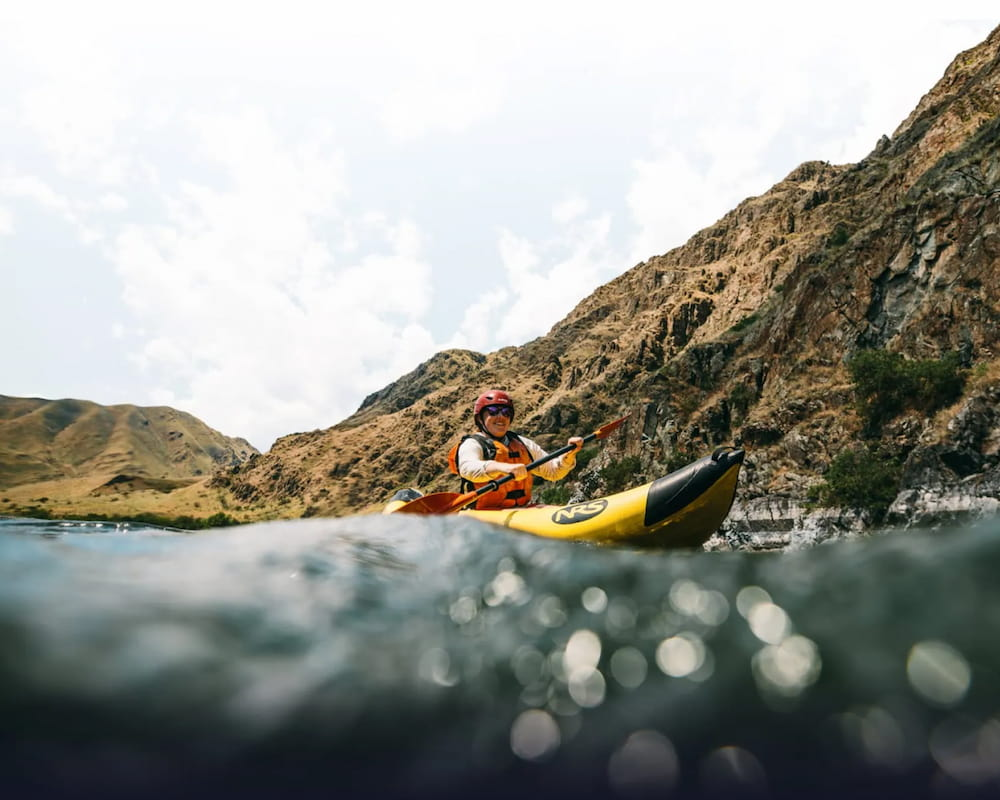
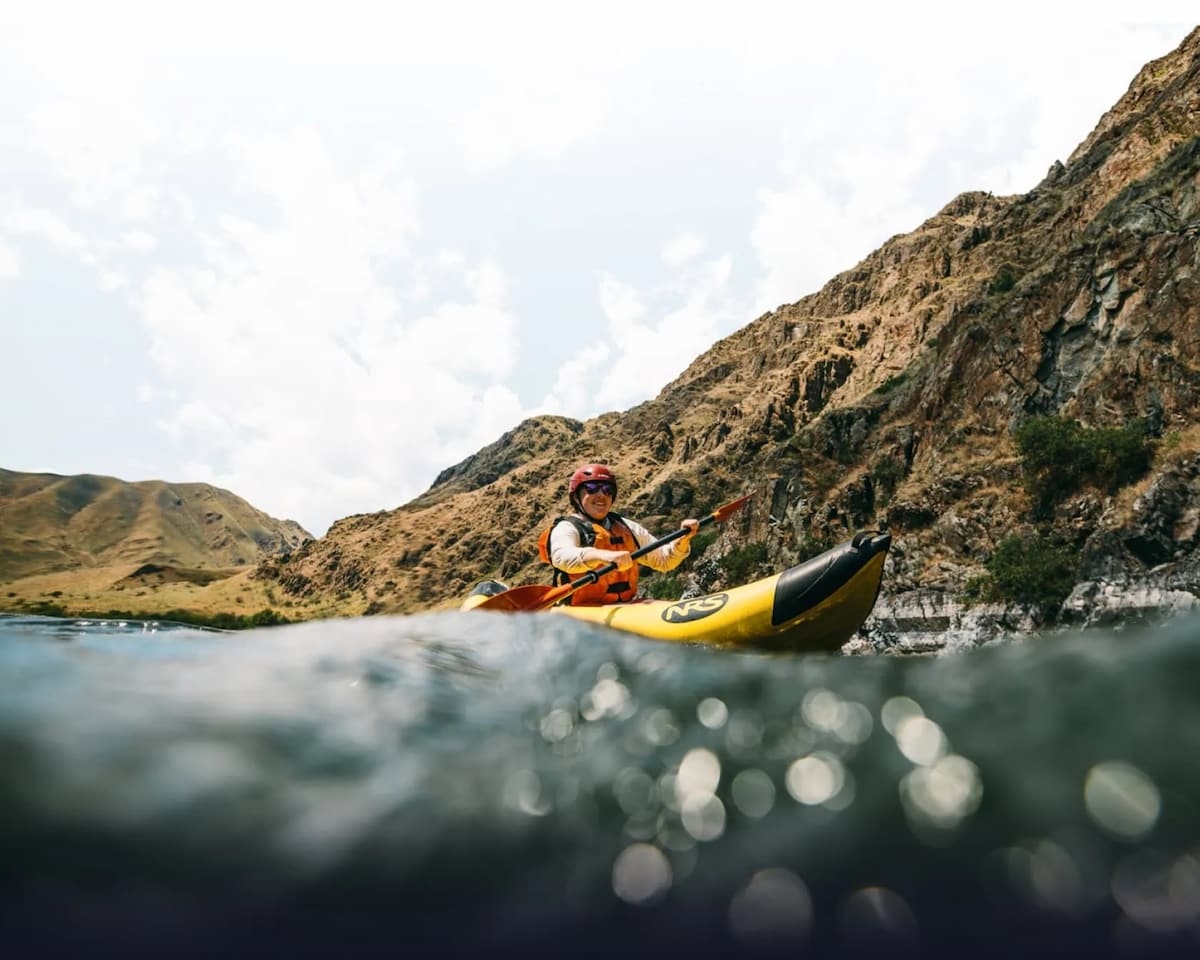
hero image

diff --git a/wwr/about.html b/wwr/about.html
@@ -29,7 +29,7 @@
     <!-- TODO: TAKE ALL IMAGES THROUGH SPLOOSH -->
     <main>
         <div class="hero">
-            <img src="images/kyaker.png" alt="Kyaker on River" class="none">
+            <img src="images/kyaker.jpg" alt="Kyaker on River" class="none">
             <h1>Rivers of Eden Rafting Adventure Co.</h1>
             <article class="about-article">
                 <h2>Adventure your own way</h2>
